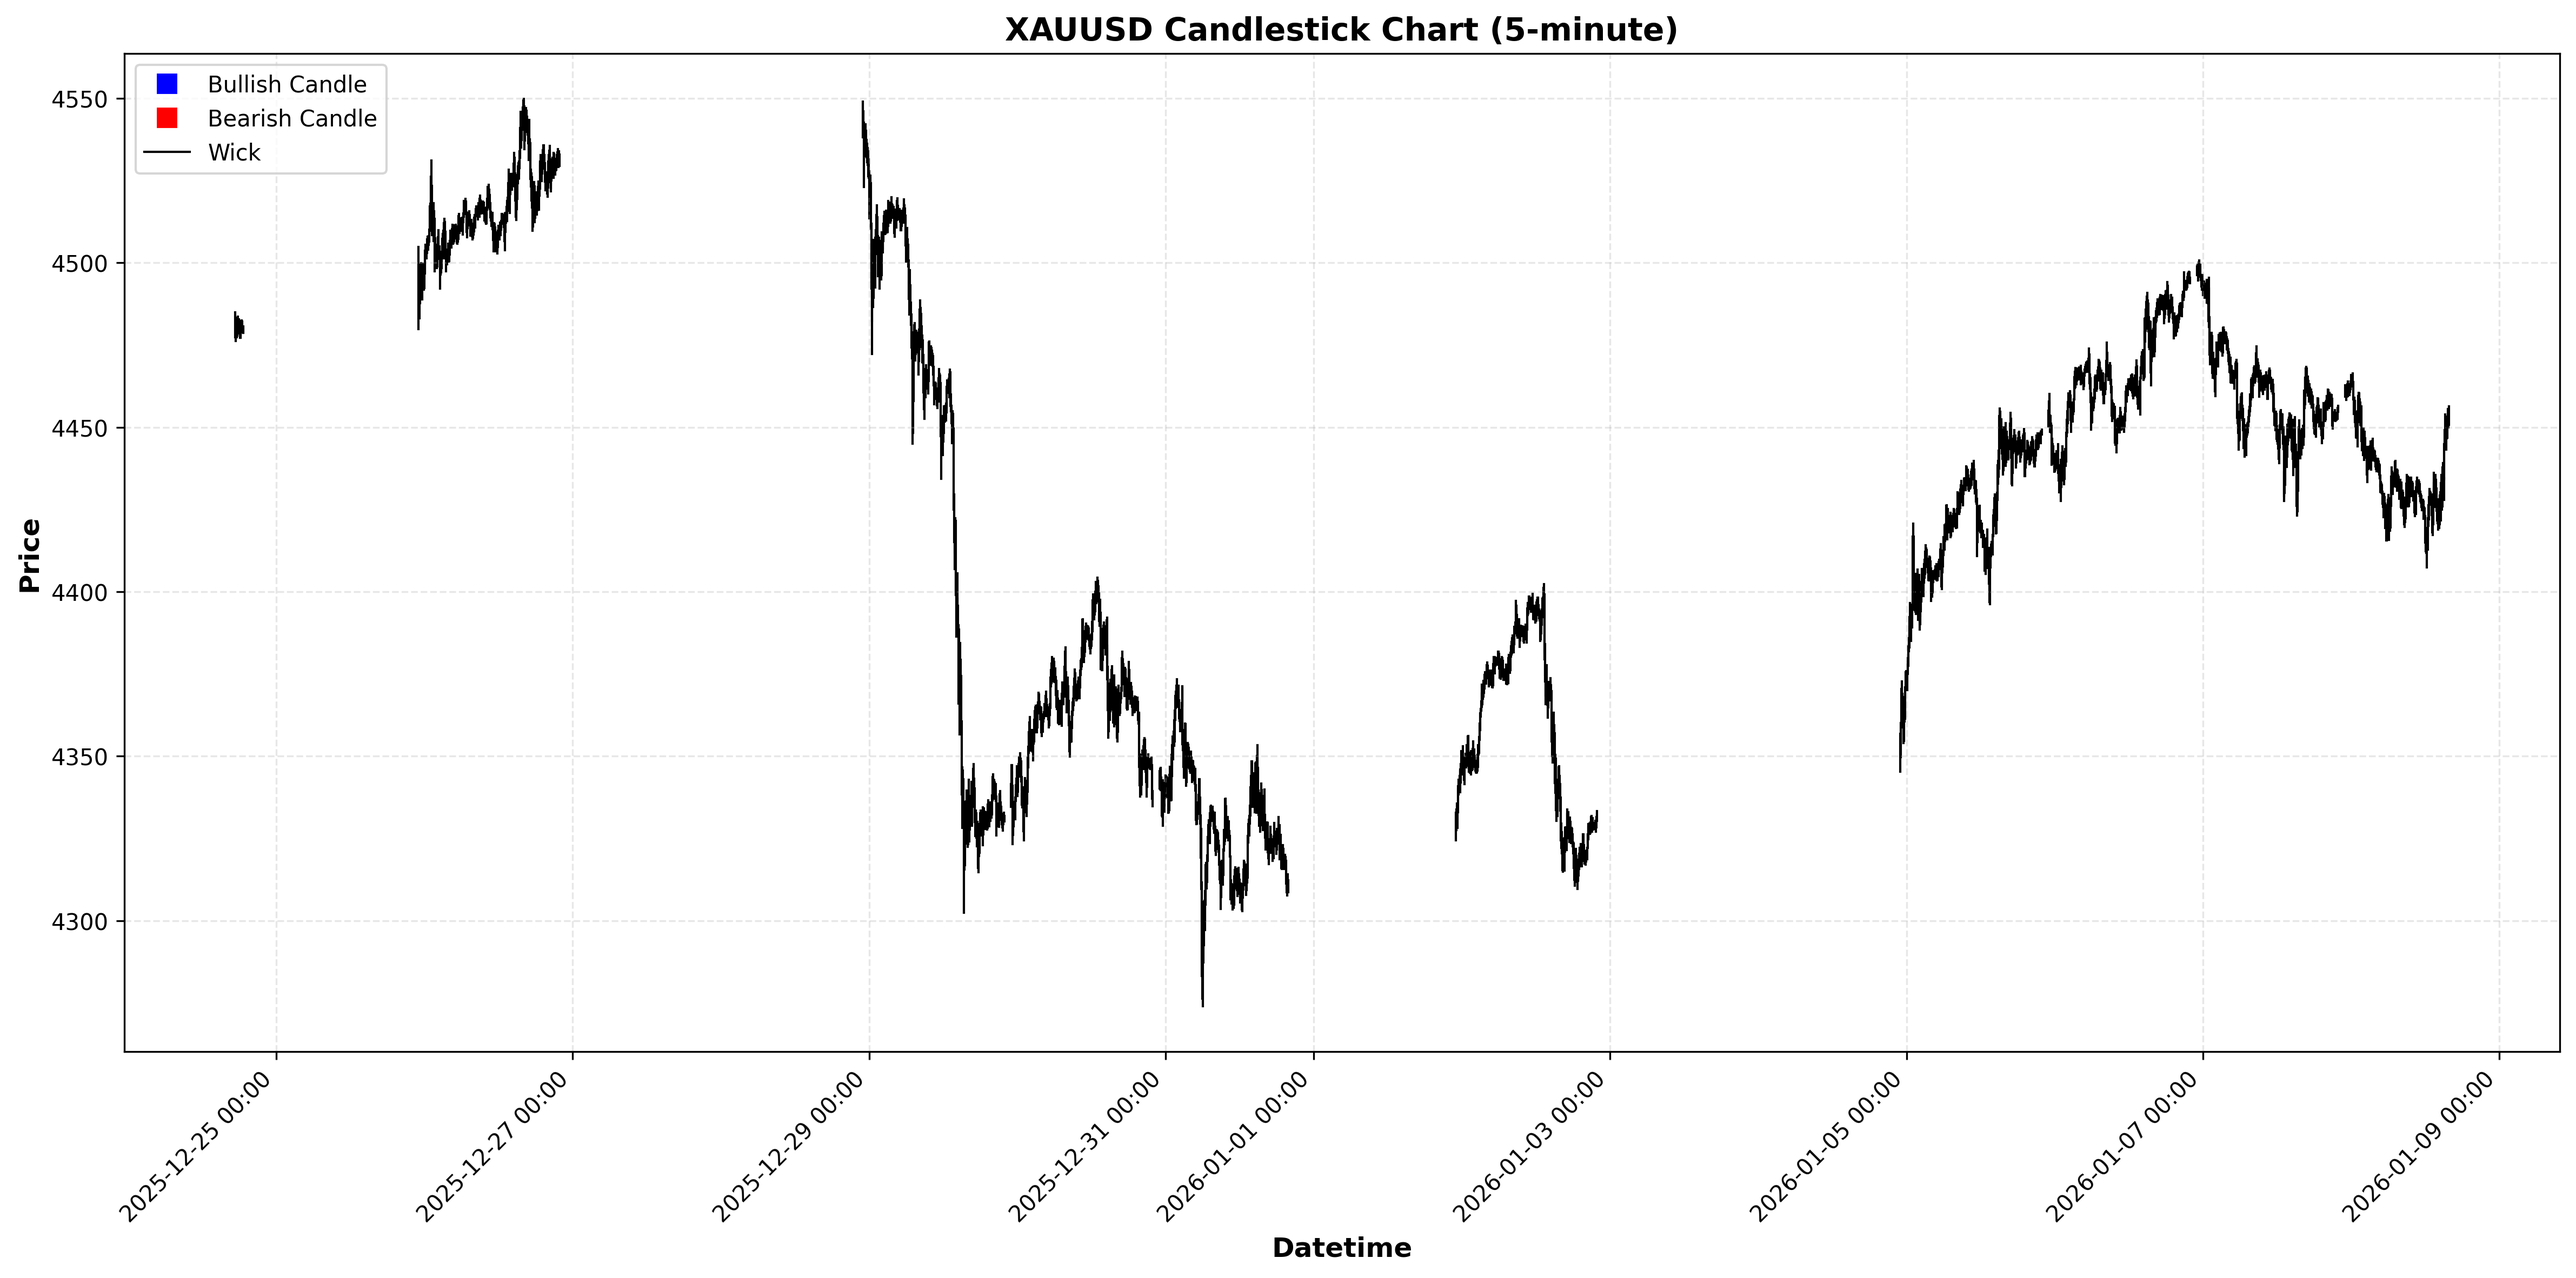
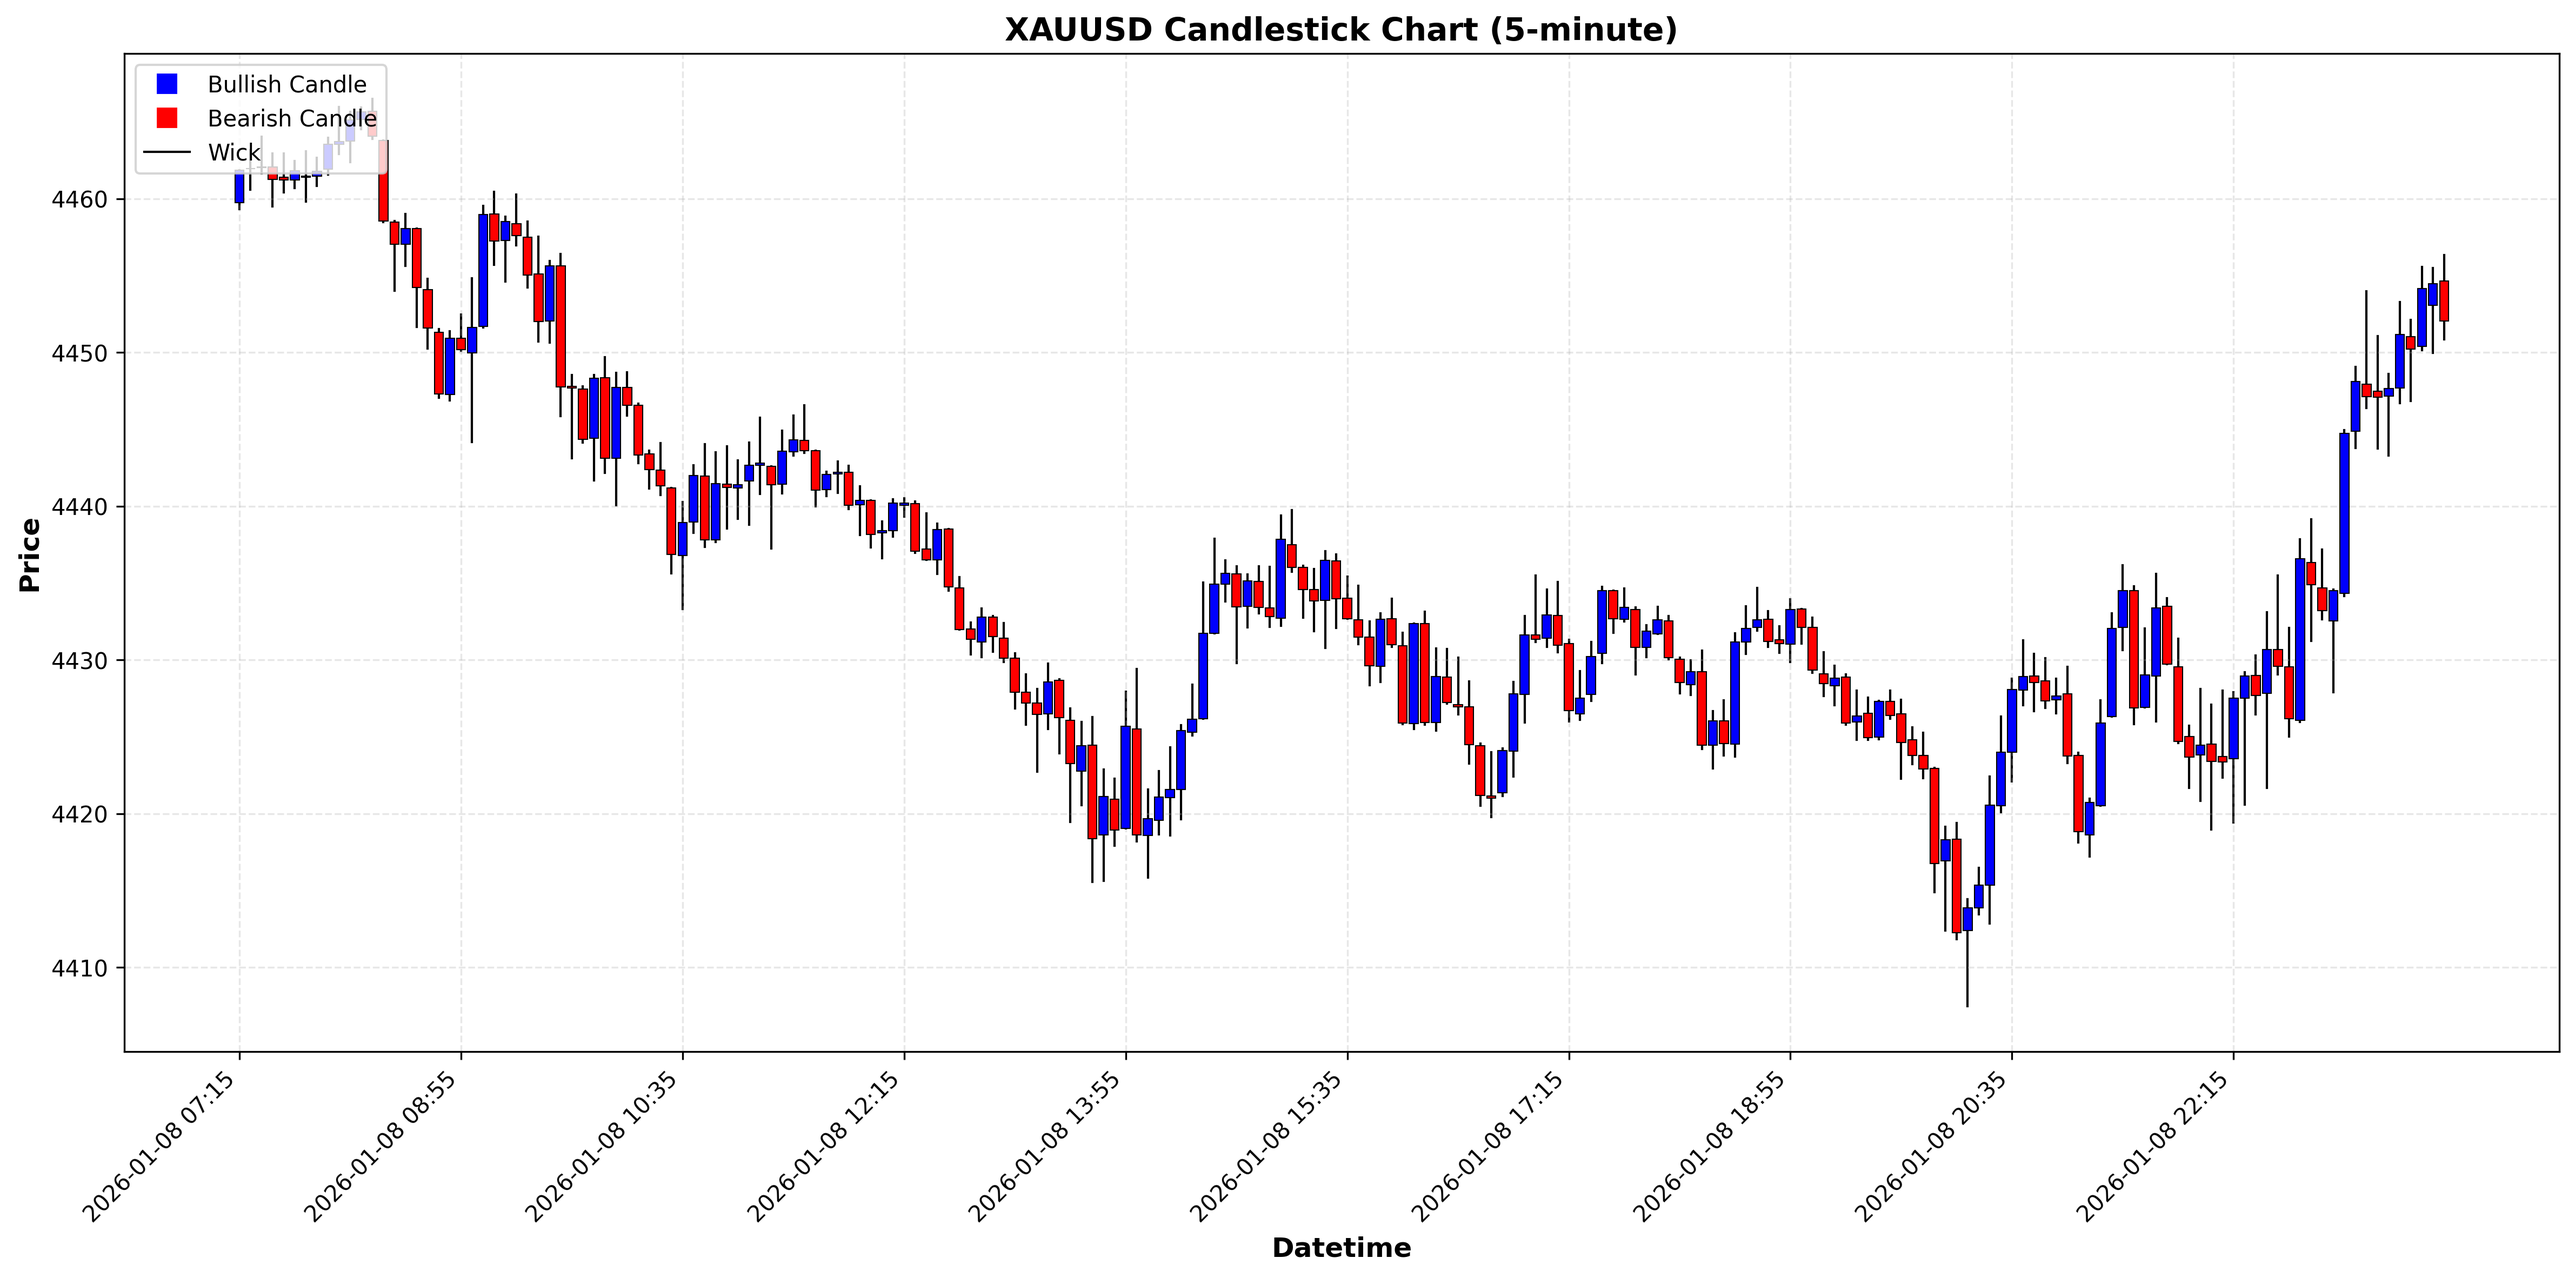
Update candlestick chart: show last 200 candles without time gaps
- Modified script to display only the last 200 candles
- Removed time gaps from x-axis by using index positions
- Candles are now evenly spaced for better visualization
- Improved readability of individual candlesticks

diff --git a/plot_candlestick.py b/plot_candlestick.py
@@ -2,7 +2,6 @@ import pandas as pd
 import matplotlib.pyplot as plt
 from matplotlib.patches import Rectangle
 from matplotlib.lines import Line2D
-import matplotlib.dates as mdates
 
 # Read the CSV file
 df = pd.read_csv('PEPPERSTONE_XAUUSD, 5.csv')
@@ -11,18 +10,20 @@ df = pd.read_csv('PEPPERSTONE_XAUUSD, 5.csv')
 df['time'] = pd.to_datetime(df['time'])
 
 # Sort by time to ensure proper order
-df = df.sort_values('time')
+df = df.sort_values('time').reset_index(drop=True)
+
+# Get only the last 200 candles
+df = df.tail(200).reset_index(drop=True)
 
 # Create figure and axis
 fig, ax = plt.subplots(figsize=(16, 8))
 
-# Calculate candle width (in days) based on the time difference
-time_diff = (df['time'].iloc[1] - df['time'].iloc[0]).total_seconds() / (24 * 3600)
-width = time_diff * 0.6  # 60% of the time interval for candle width
+# Set candle width (80% of index spacing)
+width = 0.8
 
-# Plot each candlestick
+# Plot each candlestick using index position instead of datetime
 for idx, row in df.iterrows():
-    time = row['time']
+    x_pos = idx  # Use index position for x-axis
     open_price = row['open']
     high_price = row['high']
     low_price = row['low']
@@ -41,11 +42,11 @@ for idx, row in df.iterrows():
         body_height = open_price - close_price
 
     # Draw the wicks (high-low line) in black
-    ax.plot([time, time], [low_price, high_price], color='black', linewidth=1, zorder=1)
+    ax.plot([x_pos, x_pos], [low_price, high_price], color='black', linewidth=1, zorder=1)
 
     # Draw the candle body
     rect = Rectangle(
-        (mdates.date2num(time) - width/2, body_bottom),
+        (x_pos - width/2, body_bottom),
         width,
         body_height,
         facecolor=color,
@@ -55,10 +56,13 @@ for idx, row in df.iterrows():
     )
     ax.add_patch(rect)
 
-# Format the x-axis
-ax.xaxis.set_major_formatter(mdates.DateFormatter('%Y-%m-%d %H:%M'))
-ax.xaxis.set_major_locator(mdates.AutoDateLocator())
-plt.xticks(rotation=45, ha='right')
+# Format the x-axis with datetime labels at intervals
+# Show date labels at regular intervals
+step = max(1, len(df) // 10)  # Show approximately 10 labels
+tick_positions = range(0, len(df), step)
+tick_labels = [df.loc[i, 'time'].strftime('%Y-%m-%d %H:%M') for i in tick_positions]
+ax.set_xticks(tick_positions)
+ax.set_xticklabels(tick_labels, rotation=45, ha='right')
 
 # Set labels and title
 ax.set_xlabel('Datetime', fontsize=12, fontweight='bold')
